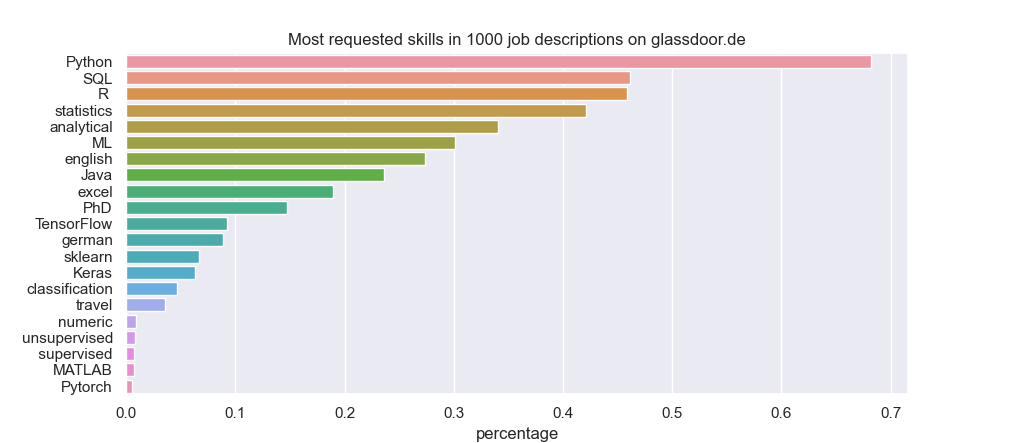
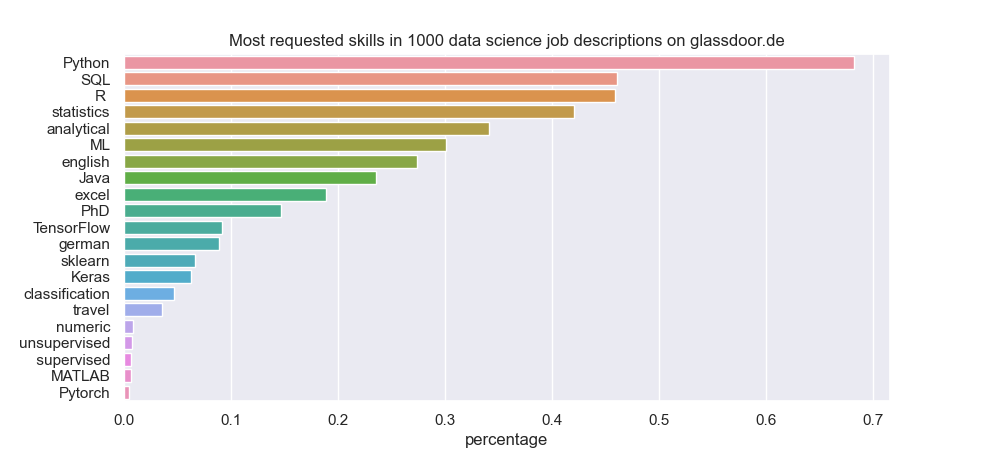
changed plot title

diff --git a/description_cleaning.py b/description_cleaning.py
@@ -96,7 +96,7 @@ keyword_dict = {k: v / n_jobs for k,v in sorted(keyword_dict.items(), key = lamb
 
 
 sns.barplot(list(keyword_dict.values())[::-1][:-1],list(keyword_dict.keys())[::-1][:-1])
-plt.title('Most requested skills in 1000 job descriptions on glassdoor.de')
+plt.title('Most requested skills in 1000 data science job descriptions on glassdoor.de')
 plt.xlabel('percentage')
 #sns.barplot(list(keyword_dict.keys()), keyword_dict.values()
 #, align = 'center'
